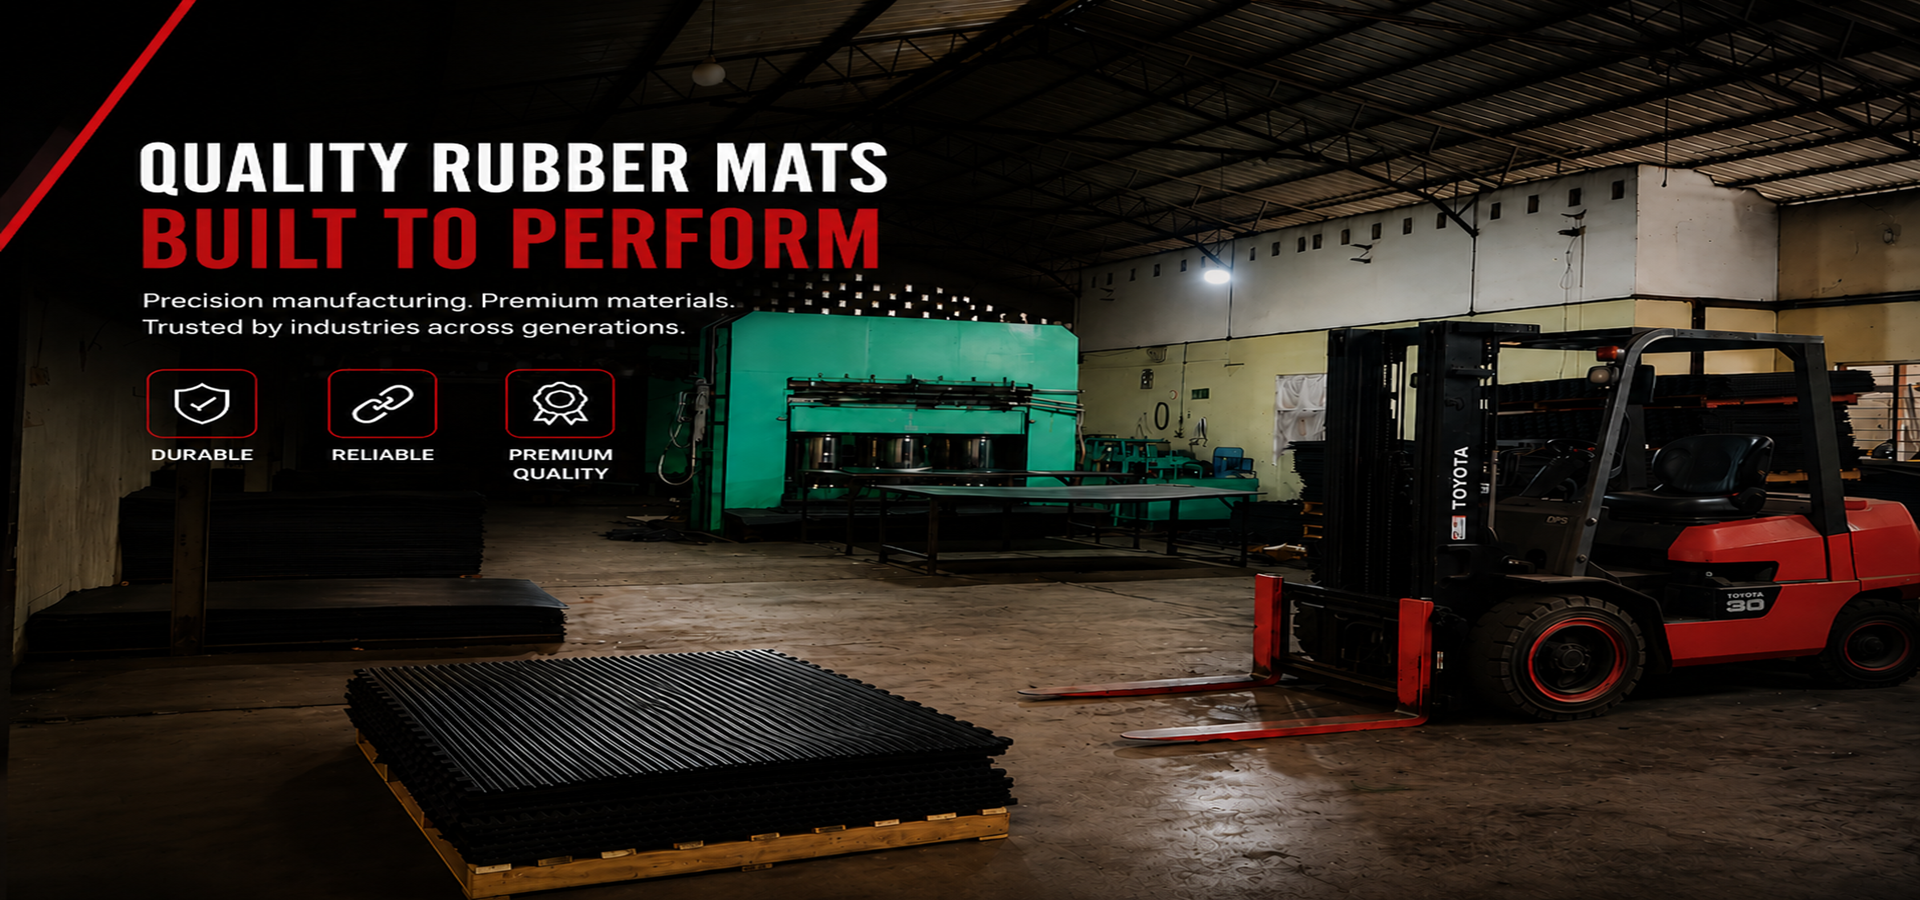
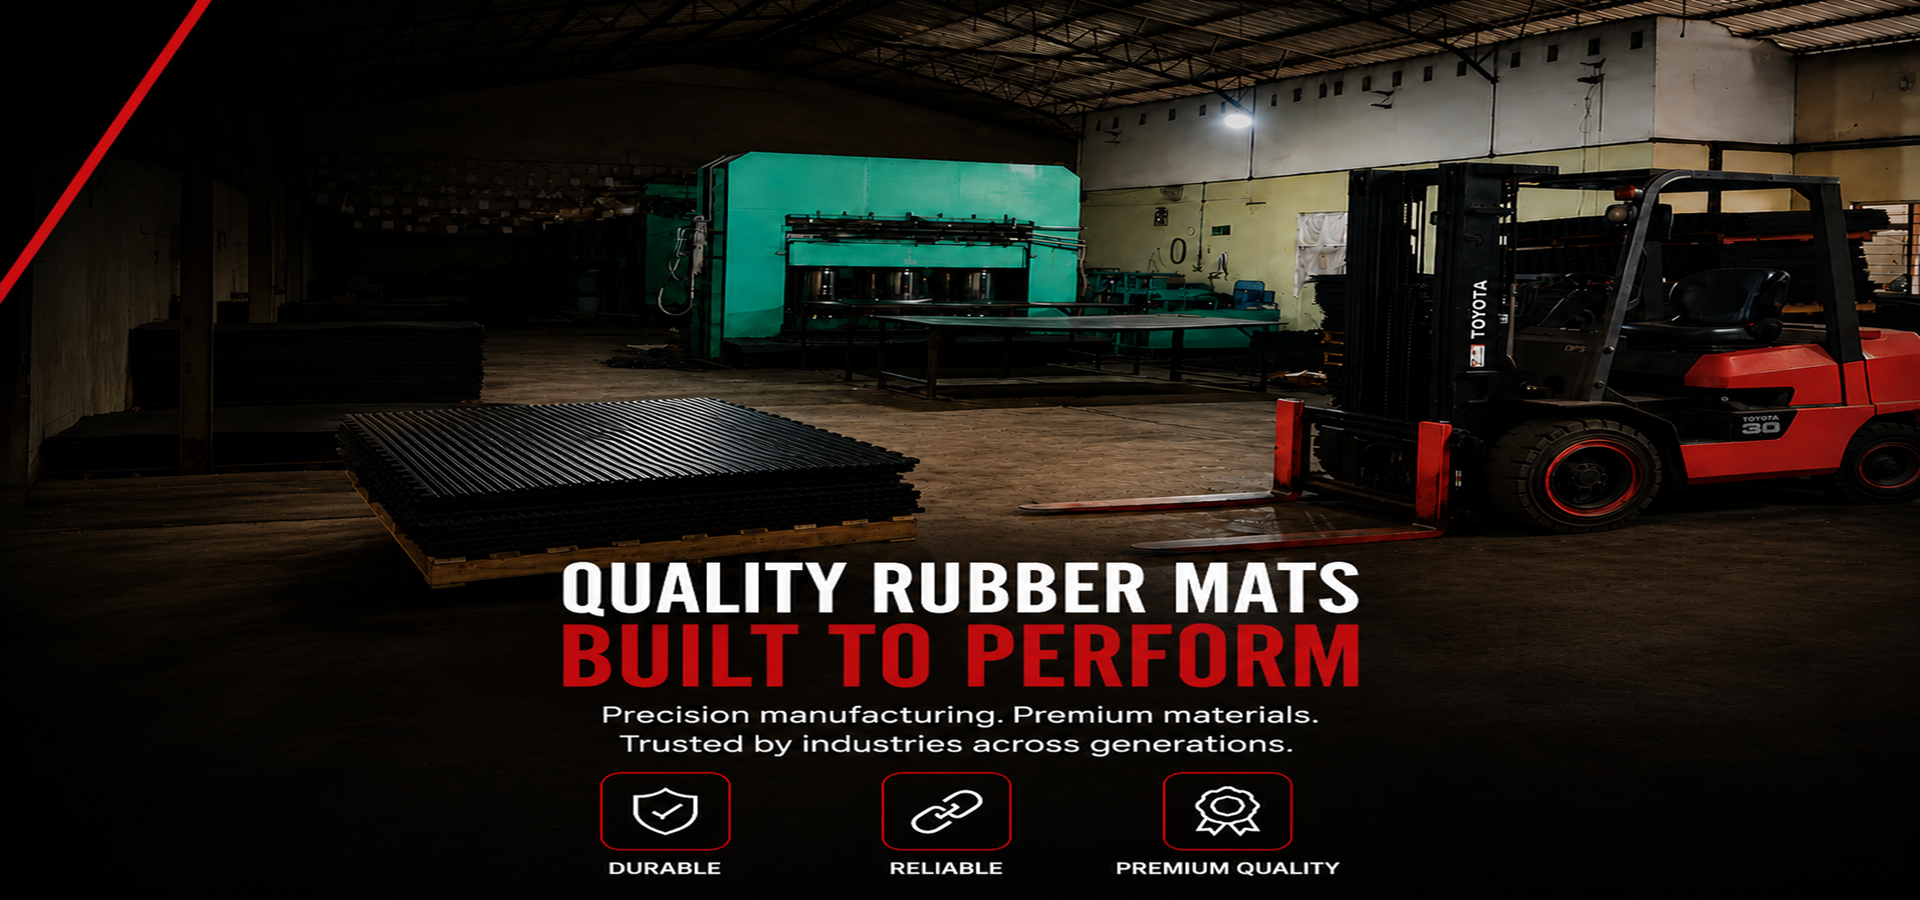
changes

diff --git a/zionrubber/assets/css/productscss.css b/zionrubber/assets/css/productscss.css
@@ -362,3 +362,82 @@
 }
 
 }
+@media (max-width: 768px) {
+
+  .modal-content {
+    width: 95%;
+    max-width: 400px;
+    max-height: 90vh;
+
+    overflow-y: auto;
+
+    display: flex;
+    flex-direction: column;
+
+    padding: 20px;
+    gap: 20px;
+
+    border-radius: 15px;
+  }
+
+  /* Image section on top */
+  .modal-images {
+    width: 100%;
+    display: flex;
+    justify-content: center;
+  }
+
+  .carousel {
+    width: 100%;
+    max-width: 100%;
+  }
+
+  .carousel-image {
+    width: 100%;
+    height: 250px;
+    object-fit: cover;
+    border-radius: 12px;
+  }
+
+  /* Details below image */
+  .modal-details {
+    width: 100%;
+    text-align: center;
+  }
+
+  .modal-details h2 {
+    font-size: 24px;
+    margin-bottom: 15px;
+  }
+
+  .modal-details p {
+    font-size: 15px;
+    line-height: 1.6;
+    margin-bottom: 15px;
+  }
+
+  .modal-details ul {
+    padding-left: 0;
+    list-style: none;
+    text-align: left;
+  }
+
+  .modal-details li {
+    padding: 8px 0;
+    border-bottom: 1px solid #eee;
+  }
+
+  .enquire-btn {
+    display: inline-block;
+    width: 100%;
+    text-align: center;
+    margin-top: 20px;
+    /*margin:auto auto 20px auto;*/
+  }
+
+  .close-btn {
+    top: 10px;
+    right: 15px;
+    font-size: 30px;
+  }
+}

diff --git a/zionrubber/about.html b/zionrubber/about.html
@@ -78,8 +78,8 @@
     <section id="hero" class="hero section dark-background">
     <div class="">
      <picture>
-        <source media="(max-width:768px)" srcset="assets\img\main\aboutmobile.jpg">
-         <img src="assets\img\main\zionaboutmain.jpg" alt="" data-aos="fade-in"></picture>
+        <source media="(max-width:768px)" srcset="assets\img\main\aboutmobile.png">
+         <img src="assets\img\main\zionaboutmain.png" alt="" data-aos="fade-in"></picture>
 
       <div class="container">
         <div class="row">